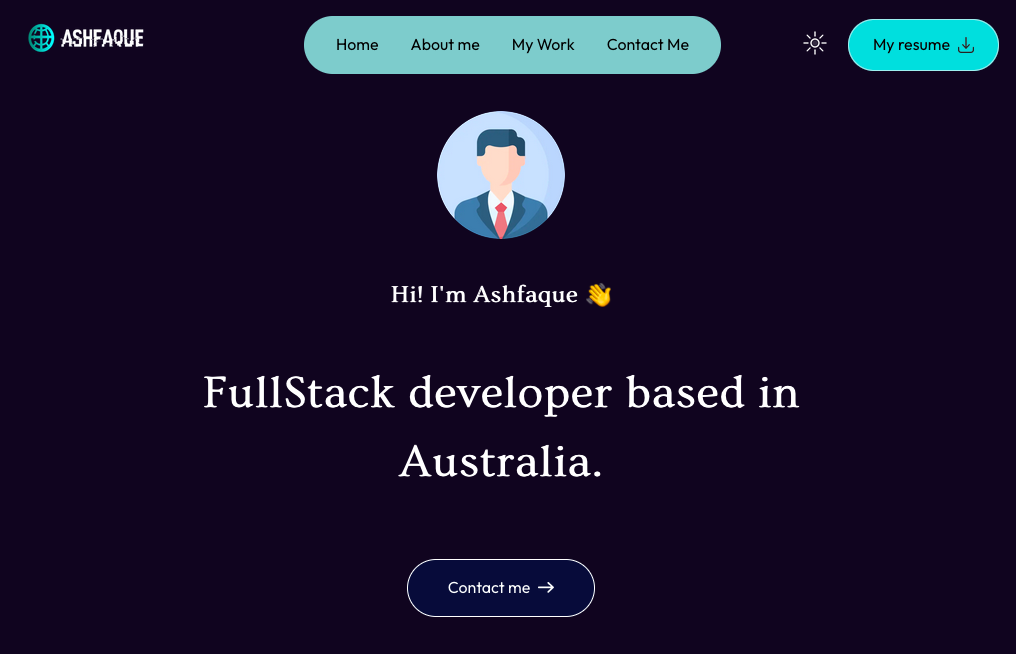
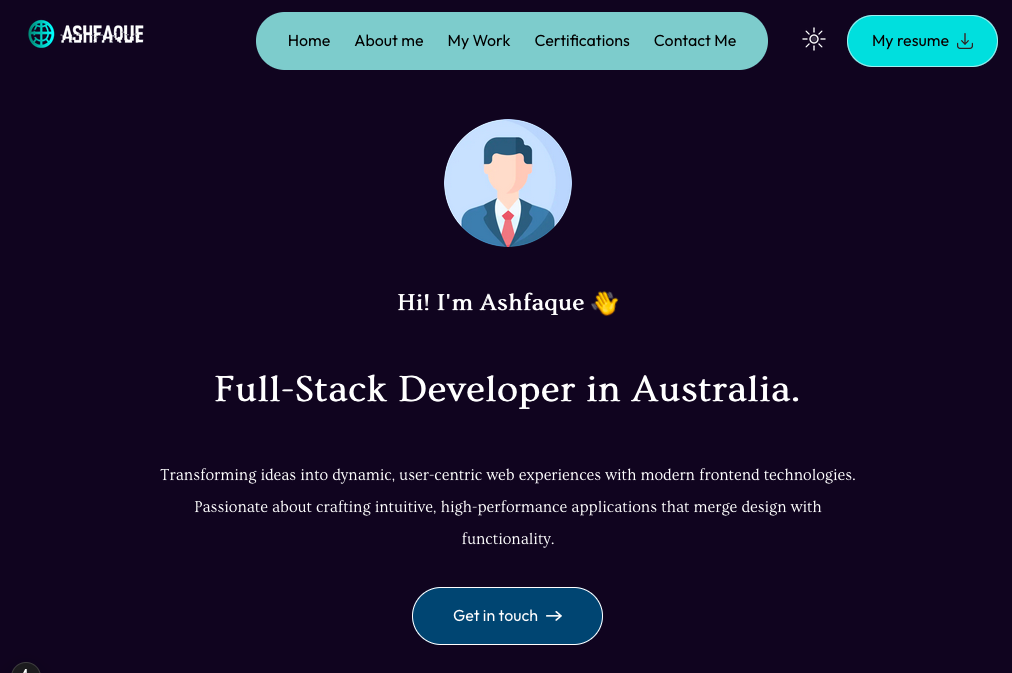
Added footer with other minor updates

diff --git a/app/components/Footer/Footer.tsx b/app/components/Footer/Footer.tsx
@@ -1,0 +1,71 @@
+import Image from "next/image";
+import styles from "./Footer.module.css";
+
+interface FooterProps {
+  isDarkMode: boolean;
+}
+
+const Footer: React.FC<FooterProps> = ({ isDarkMode }) => {
+  return (
+    <footer className={styles.footer}>
+      <div className={styles.footerTop}>
+        <Image
+          src={isDarkMode ? "/logo_dark.png" : "/logo.png"}
+          alt="Logo"
+          width={160}
+          height={44}
+          className={styles.logo}
+        />
+        <div className={styles.contactInfo}>
+          <Image
+            src={isDarkMode ? "/mail_icon_dark.png" : "/mail_icon.png"}
+            alt="Mail Icon"
+            width={20}
+            height={20}
+          />
+          <span>ashfaqanik698@gmail.com</span>
+        </div>
+      </div>
+
+      <div
+        className={`${styles.footerBottom} ${
+          isDarkMode ? styles.footerBottomDark : ""
+        }`}
+      >
+        <p>© 2025 Ashfaque. All rights reserved.</p>
+        <ul className={styles.socialLinks}>
+          <li>
+            <a
+              target="_blank"
+              rel="noopener noreferrer"
+              href="https://github.com/Ashfaqanik"
+            >
+              <Image
+                src={`${isDarkMode ? "/github_dark.png" : "/github.png"}`}
+                alt="GitHub"
+                width={`${isDarkMode ? 35 : 25}`}
+                height={`${isDarkMode ? 35 : 25}`}
+              />
+            </a>
+          </li>
+          <li>
+            <a
+              target="_blank"
+              rel="noopener noreferrer"
+              href="https://linkedin.com/in/md-ashfaque-khan-103a22190"
+            >
+              <Image
+                src="/linkedin.png"
+                alt="LinkedIn"
+                width={`${isDarkMode ? 34 : 28}`}
+                height={`${isDarkMode ? 34 : 28}`}
+              />
+            </a>
+          </li>
+        </ul>
+      </div>
+    </footer>
+  );
+};
+
+export default Footer;

diff --git a/app/components/Header/Header.module.css b/app/components/Header/Header.module.css
@@ -2,7 +2,7 @@
   width: 91.67%;
   max-width: 48rem;
   text-align: center;
-  margin: 0 auto;
+  margin: 30 auto;
   height: 100vh;
   display: flex;
   flex-direction: column;
@@ -64,6 +64,16 @@
   font-family: "Ovo", serif;
   font-size: 1.575rem;
   line-height: 1.5;
+  opacity: 0;
+  transform: translateY(20px);
+  animation: fadeInUp 0.6s ease-in-out 0.7s forwards;
+}
+
+@keyframes fadeInUp {
+  to {
+    opacity: 1;
+    transform: translateY(0);
+  }
 }
 
 @media (min-width: 640px) {
@@ -74,14 +84,22 @@
 
 @media (min-width: 1024px) {
   .heading {
-    font-size: 46px;
+    font-size: 38px;
   }
 }
-
-.description {
-  max-width: 42rem;
+.introText {
+  max-width: 700px;
   margin: 0 auto;
   font-family: "Ovo", serif;
+  opacity: 0;
+  animation: fadeIn 0.6s ease-in-out 0.7s forwards;
+}
+
+@keyframes fadeIn {
+  to {
+    opacity: 1;
+    transform: translateY(0);
+  }
 }
 
 .buttonGroup {
@@ -102,16 +120,22 @@
   padding: 0.75rem 2.5rem;
   border: 1px solid white;
   border-radius: 9999px;
-  background-color: rgb(5, 17, 56);
+  background-color: rgb(5, 30, 56);
   color: white;
   display: flex;
   align-items: center;
   gap: 0.5rem;
   text-decoration: none;
 }
+.contactButton:hover {
+  background-color: rgb(28, 115, 155);
+}
 
-.dark .contactButton {
-  background-color: transparent;
+.contactButtonDark {
+  background-color: rgb(19, 71, 110);
+}
+.contactButtonDark:hover {
+  background-color: rgb(12, 33, 101);
 }
 
 .resumeButton {

diff --git a/app/components/Header/Header.tsx b/app/components/Header/Header.tsx
@@ -3,7 +3,6 @@
 import { assets } from "@/assets/assets";
 import Image from "next/image";
 import React from "react";
-//import { motion } from "motion/react";
 import styles from "./Header.module.css";
 type Props = {
   isDarkMode: boolean;
@@ -22,11 +21,20 @@ const Header: React.FC<Props> = ({ isDarkMode, setIsDarkMode }) => {
       <h3 className={styles.greeting}>
         Hi! I'm Ashfaque <span className={styles.wavingHand}>👋</span>
       </h3>
-      <h1 className={styles.heading}>
-        FullStack developer based in Australia.
-      </h1>
+      <h1 className={styles.heading}>Full-Stack Developer in Australia.</h1>
+      <p className={styles.introText}>
+        Transforming ideas into dynamic, user-centric web experiences with
+        modern frontend technologies. Passionate about crafting intuitive,
+        high-performance applications that merge design with functionality.
+      </p>
+
       <div className={styles.buttonGroup}>
-        <a href="#contact" className={styles.contactButton}>
+        <a
+          href="#contact"
+          className={`${styles.contactButton} ${
+            isDarkMode ? styles.contactButtonDark : ""
+          }`}
+        >
           Get in touch
           <Image
             src={assets.right_arrow_white}

diff --git a/app/components/Footer/Footer.module.css b/app/components/Footer/Footer.module.css
@@ -1,0 +1,62 @@
+.footer {
+  text-align: center;
+  padding: 60px 20px;
+}
+
+.footerTop {
+  display: flex;
+  flex-direction: column;
+  align-items: center;
+  gap: 15px;
+}
+
+.logo {
+  width: 110px;
+  height: auto;
+}
+
+.contactInfo {
+  display: flex;
+  align-items: center;
+  gap: 10px;
+  font-size: 16px;
+  opacity: 0.8;
+}
+
+.footerBottom {
+  margin-top: 20px;
+  padding-top: 15px;
+  border-top: 1px solid rgba(8, 65, 94, 0.2);
+  display: flex;
+  flex-direction: column;
+  align-items: center;
+}
+.footerBottomDark {
+  border-top: 1px solid rgba(222, 229, 233, 0.2);
+}
+
+.footerBottom p {
+  margin-bottom: 10px;
+  font-size: 14px;
+  opacity: 0.7;
+}
+
+.socialLinks {
+  display: flex;
+  gap: 15px;
+  margin-right: 2rem;
+}
+
+.socialLinks li {
+  list-style: none;
+}
+
+.socialLinks a {
+  display: flex;
+  align-items: center;
+  transition: opacity 0.3s;
+}
+
+.socialLinks a:hover {
+  opacity: 0.7;
+}

diff --git a/assets/assets.ts b/assets/assets.ts
@@ -20,8 +20,6 @@ import mongodb from "./mongodb.png";
 import right_arrow_white from "./right-arrow-white.png";
 import logo from "./logo.png";
 import logo_dark from "./logo_dark.png";
-import mail_icon from "./mail_icon.png";
-import mail_icon_dark from "./mail_icon_dark.png";
 import download_icon from "./download-icon.png";
 import header_bg_color from "./header-bg-color.png";
 import moon_icon from "./moon_icon.png";
@@ -62,8 +60,6 @@ export interface Assets {
   logo: StaticImageData;
   github: StaticImageData;
   logo_dark: StaticImageData;
-  mail_icon: StaticImageData;
-  mail_icon_dark: StaticImageData;
   download_icon: StaticImageData;
   header_bg_color: StaticImageData;
   moon_icon: StaticImageData;
@@ -105,8 +101,6 @@ export const assets: Assets = {
   logo,
   github,
   logo_dark,
-  mail_icon,
-  mail_icon_dark,
   download_icon,
   header_bg_color,
   moon_icon,

diff --git a/app/page.tsx b/app/page.tsx
@@ -7,6 +7,7 @@ import About from "./components/About/About";
 import MyProjects from "./components/MyProjects/MyProjects";
 import Certifications from "./components/Certifications/Certifications";
 import Contact from "./components/Contact/Contact";
+import Footer from "./components/Footer/Footer";
 
 export default function Home() {
   const [isDarkMode, setIsDarkMode] = useState(false);
@@ -41,6 +42,7 @@ export default function Home() {
       <MyProjects isDarkMode={isDarkMode} />
       <Certifications isDarkMode={isDarkMode} />
       <Contact isDarkMode={isDarkMode} />
+      <Footer isDarkMode={isDarkMode} />
     </div>
   );
 }

diff --git a/app/components/About/About.tsx b/app/components/About/About.tsx
@@ -15,7 +15,7 @@ const About: React.FC<AboutProps> = ({ isDarkMode }) => {
       <div className={styles.content}>
         <div className={styles.textContent}>
           <p className={styles.description}>
-            I am a passionate FullStack Developer with a strong academic
+            I am a passionate software developer with a strong academic
             foundation and hands-on experience through personal projects. I
             specialize in building intuitive and responsive user interfaces and
             am excited to contribute as a Frontend Developer, while also

diff --git a/app/components/Contact/Contact.tsx b/app/components/Contact/Contact.tsx
@@ -1,5 +1,4 @@
 import { useState } from "react";
-import Image from "next/image";
 import styles from "./Contact.module.css";
 
 interface ContactProps {
@@ -39,7 +38,7 @@ const Contact: React.FC<ContactProps> = ({ isDarkMode }) => {
   };
 
   return (
-    <div id="contact">
+    <div id="contact" className={styles.contactSection}>
       <h4 className={styles.contactHeading}>Contact Me</h4>
       <p className={styles.contactDescription}>
         I’d love to connect! If you have any questions, thoughts, or feedback,

diff --git a/app/components/Contact/Contact.module.css b/app/components/Contact/Contact.module.css
@@ -1,3 +1,11 @@
+.contactSection {
+  scroll-margin-top: 120px;
+}
+@media (max-width: 480px) {
+  .contactSection {
+    scroll-margin-top: 20px;
+  }
+}
 .contactContainer {
   width: 100%;
   padding: 5% 12%;
